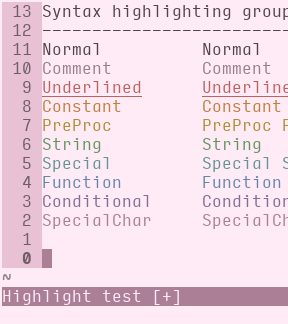
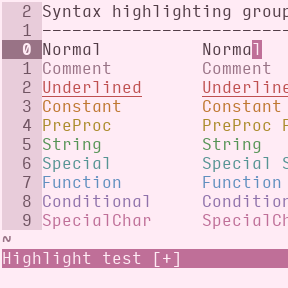
overhaul

Changed region(s): [[0.0, 0.0, 1.0, 0.9688], [0.6875, 0.75, 1.0, 0.8125]]

diff --git a/transmogrify.md b/transmogrify.md
@@ -9,28 +9,30 @@
 4s/\.sh// |
 %s/base16-default/princess/ |
 
-%s/181818/1f191c/ |
-%s/282828/30282c/ |
-%s/383838/52444b/ |
-%s/585858/705d67/ |
-%s/b8b8b8/997f8c/ |
-%s/d8d8d8/bf9faf/ |
-%s/e8e8e8/e8c1d4/ |
+%s/181818/1f171b/ |
+%s/282828/30242a/ |
+%s/383838/523d47/ |
+%s/585858/705462/ |
+%s/b8b8b8/997386/ |
+%s/d8d8d8/bf8fa7/ |
+%s/e8e8e8/e8ccda/ |
 %s/f8f8f8/ffebf5/ |
 
-%s/ab4642/bf6060/ |
-%s/dc9656/bf7f3f/ |
-%s/f7ca88/ab8e38/ |
-%s/a1b56c/639463/ |
-%s/86c1b9/639494/ |
-%s/7cafc2/6387ab/ |
-%s/ba8baf/816f94/ |
-%s/a16946/ab8096/ |
+%s/ab4642/bf5050/ |
+%s/dc9656/bf7730/ |
+%s/f7ca88/ab8b2b/ |
+%s/a1b56c/569456/ |
+%s/86c1b9/569494/ |
+%s/7cafc2/608fbf/ |
+%s/ba8baf/8f72ab/ |
+%s/a16946/bf6f98/ |
 
 %s/Character",    s:gui08, "", s:cterm08/Character",    s:gui0F, "", s:cterm0F/ |
 %s/Cursor",        s:gui00, s:gui05, s:cterm00, s:cterm05/Cursor",        s:gui00, s:gui0F, s:cterm00, s:cterm0F/ |
+%s/CursorLineNr",  s:gui04, s:gui01, s:cterm04, s:cterm01/CursorLineNr",  s:gui00, s:gui03, s:cterm00, s:cterm03/ |
 %s/Identifier",   s:gui08, "", s:cterm08, "", "none/Identifier",   s:gui0F, "", s:cterm0F, "", "bold/ |
 %s/LineNr",        s:gui03, s:gui01, s:cterm03/LineNr",        s:gui04, s:gui01, s:cterm04/ |
+%s/MatchParen",    "", s:gui03, "", s:cterm03/MatchParen",    s:gui00, s:gui03, s:cterm00, s:cterm03/ |
 %s/Search",        s:gui03, s:gui0A, s:cterm03, s:cterm0A/Search",        s:gui00, s:gui09, s:cterm00, s:cterm09/ |
 %s/statusline",    s:gui04, s:gui02, s:cterm04, s:cterm02/statusline",    s:gui00, s:gui0F, s:cterm00, s:cterm0F/ |
 %s/StatusLineNC",  s:gui03, s:gui01, s:cterm03, s:cterm01/StatusLineNC",  s:gui05, s:gui01, s:cterm05, s:cterm01/ |
@@ -49,28 +51,28 @@ normal =gg
 ```
 2,4d |
 
-%s#18/18/18#1f/19/1c# |
-%s#28/28/28#30/28/2c# |
-%s#38/38/38#52/44/4b# |
-%s#58/58/58#70/5d/67# |
-%s#b8/b8/b8#99/7f/8c# |
-%s#d8/d8/d8#bf/9f/af# |
-%s#e8/e8/e8#e8/c1/d4# |
+%s#18/18/18#1f/17/1b# |
+%s#28/28/28#30/24/2a# |
+%s#38/38/38#52/3d/47# |
+%s#58/58/58#70/54/62# |
+%s#b8/b8/b8#99/73/86# |
+%s#d8/d8/d8#bf/8f/a7# |
+%s#e8/e8/e8#e8/cc/da# |
 %s#f8/f8/f8#ff/eb/f5# |
-%s#ab/46/42#bf/60/60# |
-%s#dc/96/56#bf/7f/3f# |
-%s#f7/ca/88#ab/8e/38# |
-%s#a1/b5/6c#63/94/63# |
-%s#86/c1/b9#63/94/94# |
-%s#7c/af/c2#63/87/ab# |
-%s#ba/8b/af#81/6f/94# |
-%s#a1/69/46#ab/80/96# |
+%s#ab/46/42#bf/50/50# |
+%s#dc/96/56#bf/77/30# |
+%s#f7/ca/88#ab/8b/2b# |
+%s#a1/b5/6c#56/94/56# |
+%s#86/c1/b9#56/94/94# |
+%s#7c/af/c2#60/8f/bf# |
+%s#ba/8b/af#8f/72/ab# |
+%s#a1/69/46#bf/6f/98# |
 
-%s/181818/1f191c/ge |
-%s/383838/52444b/g |
-%s/d8d8d8/bf9faf/g |
+%s/181818/1f171b/ge |
+%s/383838/523d47/g |
+%s/d8d8d8/bf8fa7/g |
 %s/f8f8f8/ffebf5/ge |
 
 call append(123,["",
-"echo -ne '\\e]12;#ab8096\\a'"])
+"echo -ne '\\e]12;#bf6f98\\a'"])
 ```
